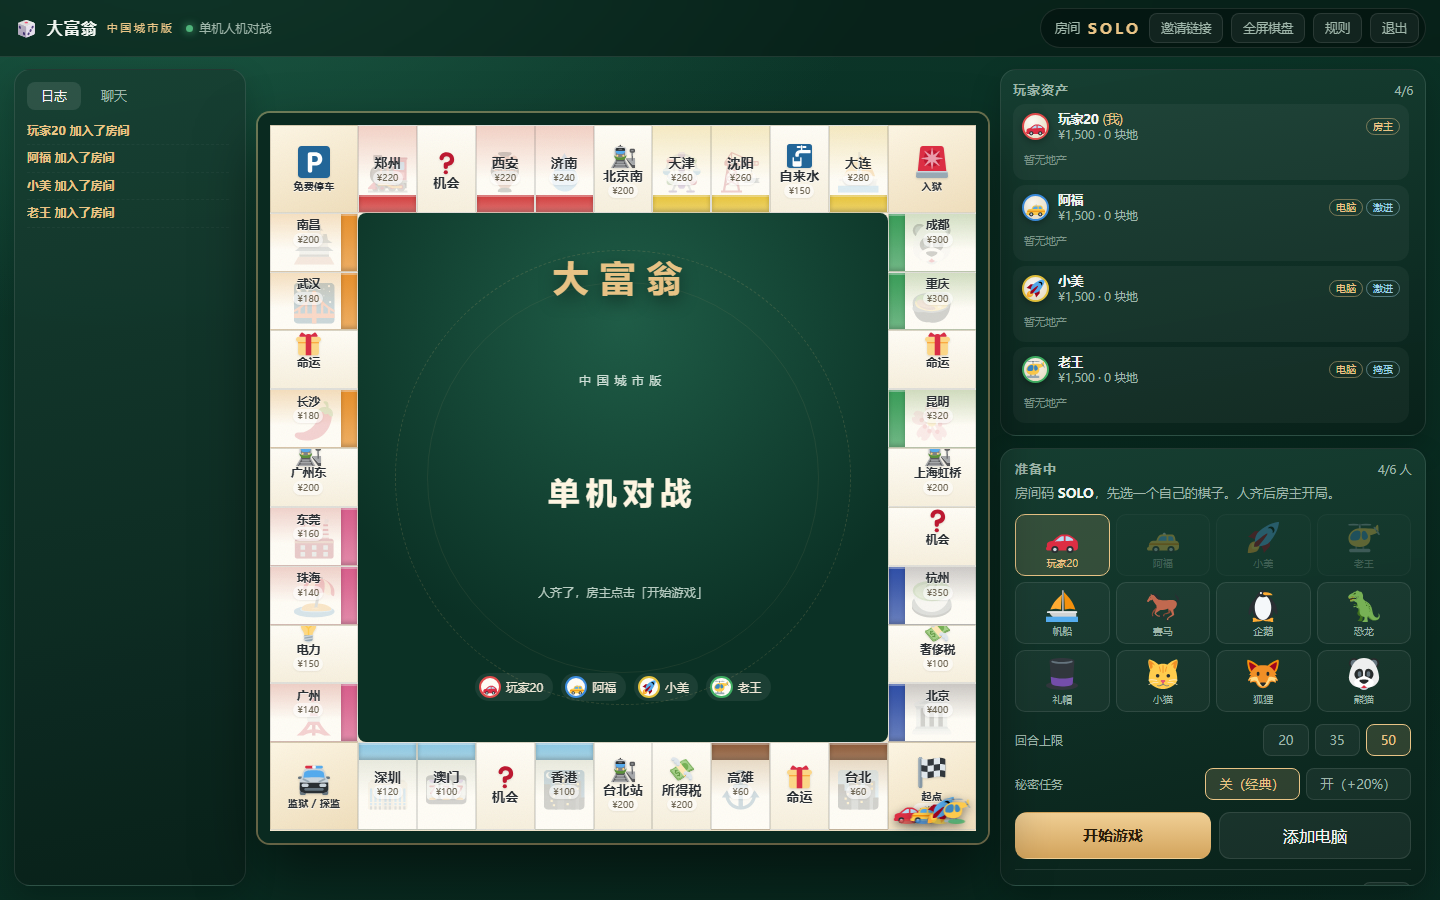
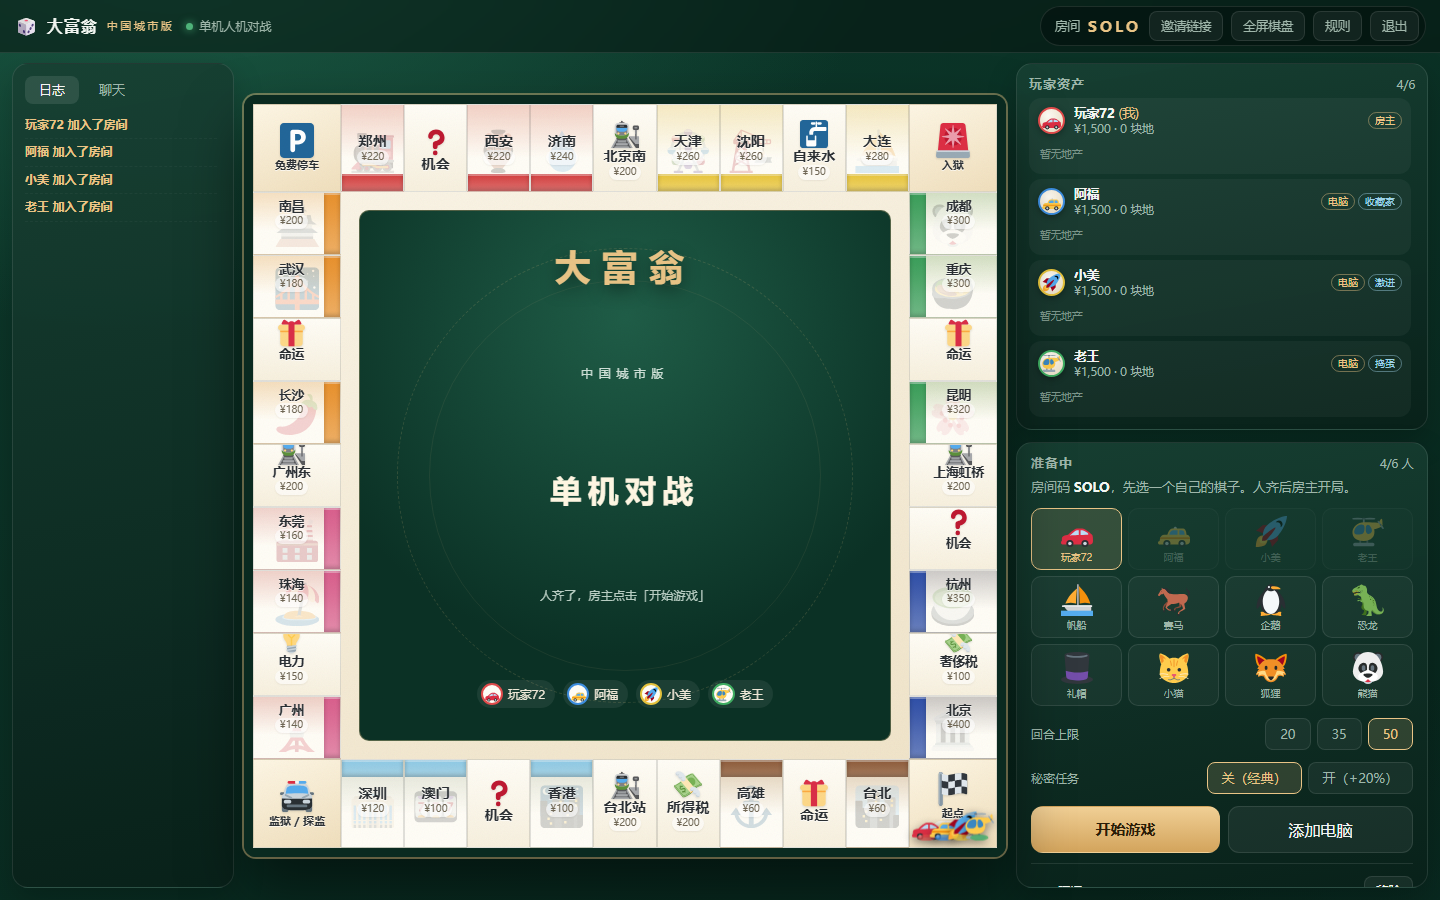
ui: 棋盘布局调整

diff --git a/docs/style.css b/docs/style.css
@@ -14,7 +14,7 @@
   --danger: #e2574c;
   --ok: #4fb37a;
   --radius: 16px;
-  --tile-fs: 14px;
+  --tile-fs: 16px;
 }
 
 * { box-sizing: border-box; }
@@ -124,8 +124,8 @@ button, input { font: inherit; color: inherit; }
   display: flex;
   align-items: center;
   gap: 12px;
-  padding: 8px 14px;
-  min-height: 50px;
+  padding: 6px 14px;
+  min-height: 46px;
   border-bottom: 1px solid var(--line);
   background: rgba(3, 16, 12, 0.5);
   backdrop-filter: blur(8px);
@@ -162,9 +162,9 @@ button, input { font: inherit; color: inherit; }
   flex: 1;
   min-height: 0;
   display: grid;
-  grid-template-columns: 232px minmax(0, 1fr) 426px;
-  gap: 12px;
-  padding: 12px 14px 14px;
+  grid-template-columns: 222px minmax(0, 1fr) 412px;
+  gap: 10px;
+  padding: 10px 12px 12px;
 }
 
 .panel {
@@ -264,13 +264,13 @@ button, input { font: inherit; color: inherit; }
 
 .board {
   position: relative;
-  width: min(100%, calc(100dvh - 84px));
+  width: min(100%, calc(100dvh - 64px));
   aspect-ratio: 1 / 1;
   display: grid;
-  grid-template-columns: 1.5fr repeat(9, 1fr) 1.5fr;
-  grid-template-rows: 1.5fr repeat(9, 1fr) 1.5fr;
+  grid-template-columns: 1.4fr repeat(9, 1fr) 1.4fr;
+  grid-template-rows: 1.4fr repeat(9, 1fr) 1.4fr;
   background: linear-gradient(160deg, #fbf6e9, #efe2c6);
-  border: 12px solid #0a2a20;
+  border: 9px solid #0a2a20;
   border-radius: 12px;
   box-shadow:
     0 0 0 2px rgba(233, 196, 134, 0.42),
@@ -371,7 +371,7 @@ button, input { font: inherit; color: inherit; }
 .tile.side-top { padding-bottom: 15%; padding-top: 22%; }
 .tile.side-left { padding-right: 14%; padding-bottom: 22%; }
 .tile.side-right { padding-left: 14%; padding-bottom: 22%; }
-.tile .ico { width: 1.75em; height: 1.75em; object-fit: contain; z-index: 1; filter: drop-shadow(0 1px 1px rgba(0, 0, 0, 0.12)); }
+.tile .ico { width: 1.85em; height: 1.85em; object-fit: contain; z-index: 1; filter: drop-shadow(0 1px 1px rgba(0, 0, 0, 0.12)); }
 
 .tile.corner { background: linear-gradient(160deg, #fdf6e4, #f0dfbd); }
 .tile.corner .ico { width: 2.3em; height: 2.3em; }
@@ -427,14 +427,16 @@ button, input { font: inherit; color: inherit; }
 
 .center {
   grid-area: 2 / 2 / 11 / 11;
+  margin: 3.2%;
+  border: 1px solid rgba(233, 196, 134, 0.32);
   position: relative;
   background:
     radial-gradient(circle at 50% 20%, #1f5d47 0%, #0b3125 68%),
     repeating-linear-gradient(45deg, rgba(255, 255, 255, 0.015) 0 2px, transparent 2px 6px);
-  border-radius: 8px;
+  border-radius: 10px;
   display: grid;
   place-items: center;
-  padding: 3%;
+  padding: 2.5%;
   overflow: hidden;
   color: #f0e9d8;
 }
@@ -466,18 +468,18 @@ button, input { font: inherit; color: inherit; }
   flex-direction: column;
   align-items: center;
   justify-content: space-between;
-  gap: clamp(4px, 0.8vh, 10px);
-  padding: 5% 3%;
+  gap: clamp(3px, 0.5vh, 7px);
+  padding: 3.5% 2.5%;
   min-height: 0;
 }
 
-.cc-block { display: flex; flex-direction: column; align-items: center; gap: clamp(6px, 1.2vh, 16px); width: 100%; }
+.cc-block { display: flex; flex-direction: column; align-items: center; gap: clamp(4px, 0.9vh, 11px); width: 100%; }
 
 .cc-top { display: flex; flex-direction: column; align-items: center; gap: 4px; z-index: 2; }
 .cc-round { font-size: clamp(10px, 1.3vh, 14px); color: #8fae9f; letter-spacing: 2px; }
 .cc-turn-row { display: flex; align-items: center; gap: 8px; }
 .cc-av { width: clamp(22px, 3.2vh, 36px); height: clamp(22px, 3.2vh, 36px); object-fit: contain; filter: drop-shadow(0 3px 5px rgba(0, 0, 0, 0.5)); }
-.cc-turn { font-size: clamp(15px, 2.4vh, 26px); font-weight: 800; color: #f4eddc; }
+.cc-turn { font-size: clamp(14px, 2.1vh, 22px); font-weight: 800; color: #f4eddc; }
 .cc-turn.mine { color: var(--gold); text-shadow: 0 0 24px rgba(233, 196, 134, 0.45); }
 
 .cc-watermark {
@@ -514,7 +516,7 @@ button, input { font: inherit; color: inherit; }
 .dice-row { display: flex; gap: clamp(8px, 1.4vh, 18px); }
 
 .die {
-  width: clamp(42px, 8.6vh, 92px);
+  width: clamp(38px, 7vh, 78px);
   aspect-ratio: 1;
   border-radius: 18%;
   background: linear-gradient(150deg, #fffdf6, #e6dcc4);

diff --git a/public/style.css b/public/style.css
@@ -14,7 +14,7 @@
   --danger: #e2574c;
   --ok: #4fb37a;
   --radius: 16px;
-  --tile-fs: 14px;
+  --tile-fs: 16px;
 }
 
 * { box-sizing: border-box; }
@@ -124,8 +124,8 @@ button, input { font: inherit; color: inherit; }
   display: flex;
   align-items: center;
   gap: 12px;
-  padding: 8px 14px;
-  min-height: 50px;
+  padding: 6px 14px;
+  min-height: 46px;
   border-bottom: 1px solid var(--line);
   background: rgba(3, 16, 12, 0.5);
   backdrop-filter: blur(8px);
@@ -162,9 +162,9 @@ button, input { font: inherit; color: inherit; }
   flex: 1;
   min-height: 0;
   display: grid;
-  grid-template-columns: 232px minmax(0, 1fr) 426px;
-  gap: 12px;
-  padding: 12px 14px 14px;
+  grid-template-columns: 222px minmax(0, 1fr) 412px;
+  gap: 10px;
+  padding: 10px 12px 12px;
 }
 
 .panel {
@@ -264,13 +264,13 @@ button, input { font: inherit; color: inherit; }
 
 .board {
   position: relative;
-  width: min(100%, calc(100dvh - 84px));
+  width: min(100%, calc(100dvh - 64px));
   aspect-ratio: 1 / 1;
   display: grid;
-  grid-template-columns: 1.5fr repeat(9, 1fr) 1.5fr;
-  grid-template-rows: 1.5fr repeat(9, 1fr) 1.5fr;
+  grid-template-columns: 1.4fr repeat(9, 1fr) 1.4fr;
+  grid-template-rows: 1.4fr repeat(9, 1fr) 1.4fr;
   background: linear-gradient(160deg, #fbf6e9, #efe2c6);
-  border: 12px solid #0a2a20;
+  border: 9px solid #0a2a20;
   border-radius: 12px;
   box-shadow:
     0 0 0 2px rgba(233, 196, 134, 0.42),
@@ -371,7 +371,7 @@ button, input { font: inherit; color: inherit; }
 .tile.side-top { padding-bottom: 15%; padding-top: 22%; }
 .tile.side-left { padding-right: 14%; padding-bottom: 22%; }
 .tile.side-right { padding-left: 14%; padding-bottom: 22%; }
-.tile .ico { width: 1.75em; height: 1.75em; object-fit: contain; z-index: 1; filter: drop-shadow(0 1px 1px rgba(0, 0, 0, 0.12)); }
+.tile .ico { width: 1.85em; height: 1.85em; object-fit: contain; z-index: 1; filter: drop-shadow(0 1px 1px rgba(0, 0, 0, 0.12)); }
 
 .tile.corner { background: linear-gradient(160deg, #fdf6e4, #f0dfbd); }
 .tile.corner .ico { width: 2.3em; height: 2.3em; }
@@ -427,14 +427,16 @@ button, input { font: inherit; color: inherit; }
 
 .center {
   grid-area: 2 / 2 / 11 / 11;
+  margin: 3.2%;
+  border: 1px solid rgba(233, 196, 134, 0.32);
   position: relative;
   background:
     radial-gradient(circle at 50% 20%, #1f5d47 0%, #0b3125 68%),
     repeating-linear-gradient(45deg, rgba(255, 255, 255, 0.015) 0 2px, transparent 2px 6px);
-  border-radius: 8px;
+  border-radius: 10px;
   display: grid;
   place-items: center;
-  padding: 3%;
+  padding: 2.5%;
   overflow: hidden;
   color: #f0e9d8;
 }
@@ -466,18 +468,18 @@ button, input { font: inherit; color: inherit; }
   flex-direction: column;
   align-items: center;
   justify-content: space-between;
-  gap: clamp(4px, 0.8vh, 10px);
-  padding: 5% 3%;
+  gap: clamp(3px, 0.5vh, 7px);
+  padding: 3.5% 2.5%;
   min-height: 0;
 }
 
-.cc-block { display: flex; flex-direction: column; align-items: center; gap: clamp(6px, 1.2vh, 16px); width: 100%; }
+.cc-block { display: flex; flex-direction: column; align-items: center; gap: clamp(4px, 0.9vh, 11px); width: 100%; }
 
 .cc-top { display: flex; flex-direction: column; align-items: center; gap: 4px; z-index: 2; }
 .cc-round { font-size: clamp(10px, 1.3vh, 14px); color: #8fae9f; letter-spacing: 2px; }
 .cc-turn-row { display: flex; align-items: center; gap: 8px; }
 .cc-av { width: clamp(22px, 3.2vh, 36px); height: clamp(22px, 3.2vh, 36px); object-fit: contain; filter: drop-shadow(0 3px 5px rgba(0, 0, 0, 0.5)); }
-.cc-turn { font-size: clamp(15px, 2.4vh, 26px); font-weight: 800; color: #f4eddc; }
+.cc-turn { font-size: clamp(14px, 2.1vh, 22px); font-weight: 800; color: #f4eddc; }
 .cc-turn.mine { color: var(--gold); text-shadow: 0 0 24px rgba(233, 196, 134, 0.45); }
 
 .cc-watermark {
@@ -514,7 +516,7 @@ button, input { font: inherit; color: inherit; }
 .dice-row { display: flex; gap: clamp(8px, 1.4vh, 18px); }
 
 .die {
-  width: clamp(42px, 8.6vh, 92px);
+  width: clamp(38px, 7vh, 78px);
   aspect-ratio: 1;
   border-radius: 18%;
   background: linear-gradient(150deg, #fffdf6, #e6dcc4);
